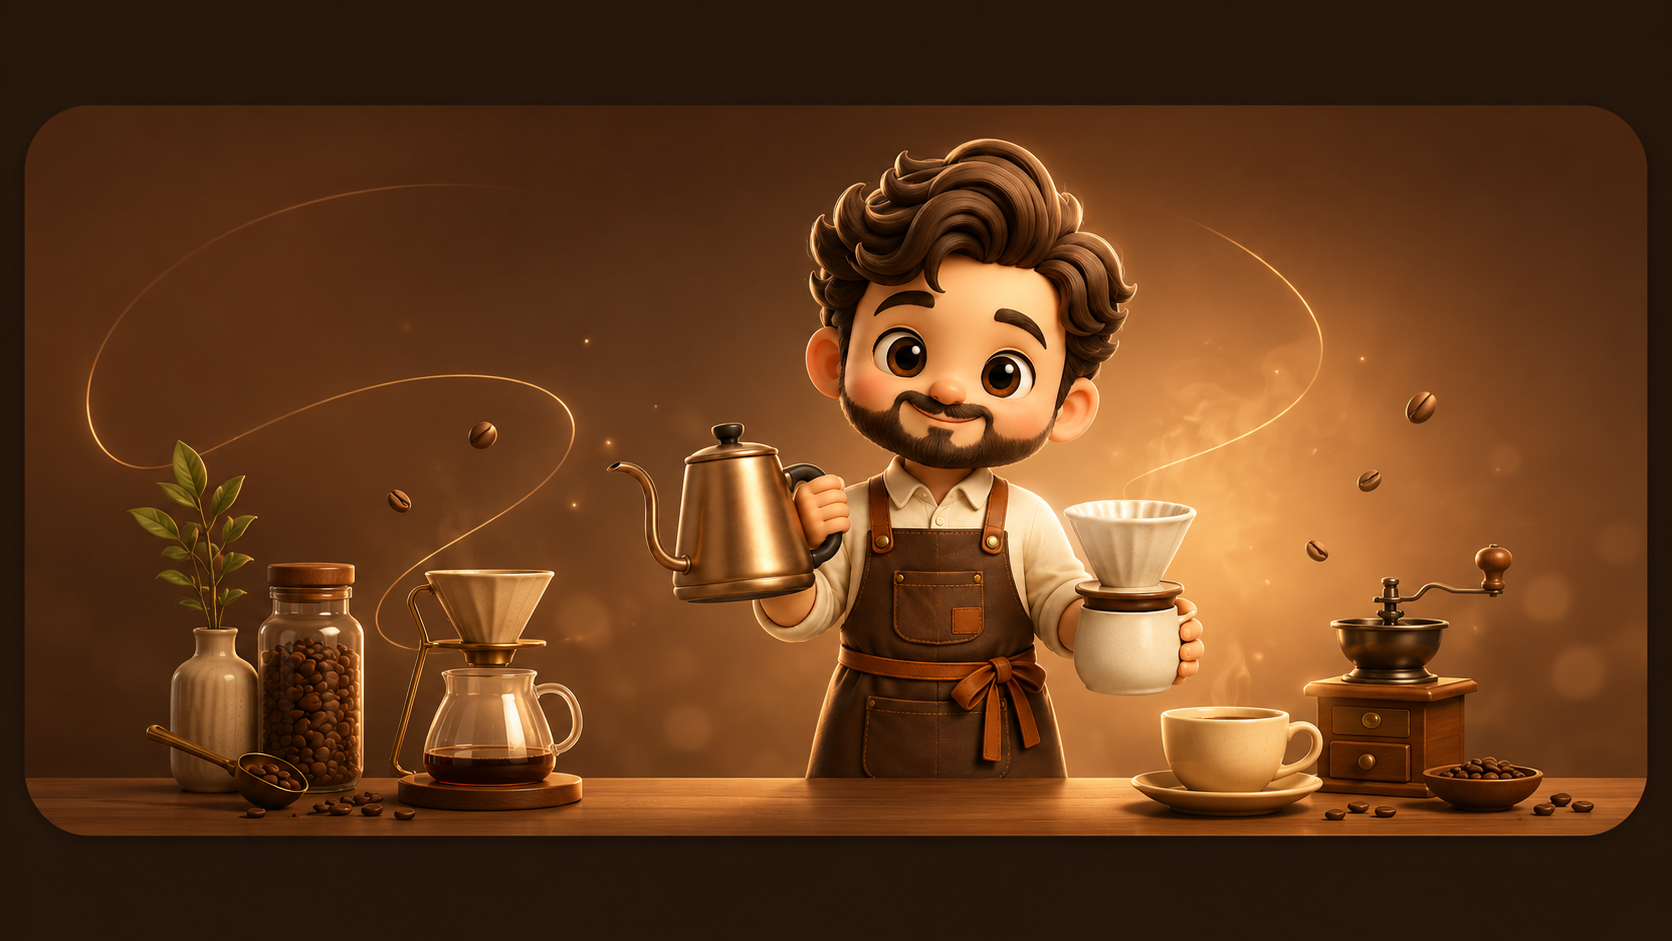
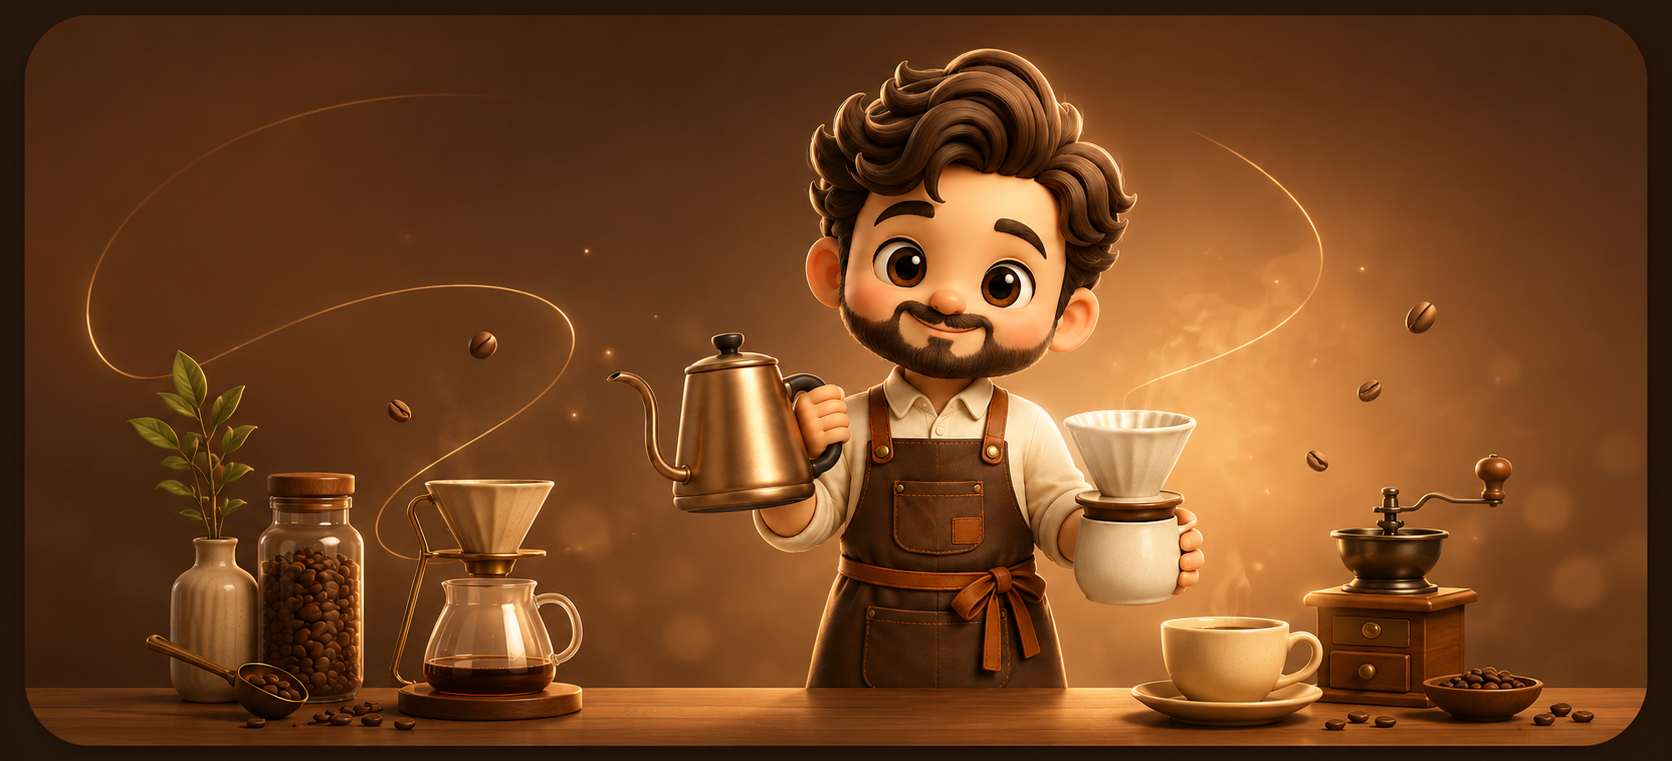
Revise metrics, refine full-bleed barista visual, and add v11 compact mascot controls

diff --git a/assets/app.js b/assets/app.js
@@ -1439,18 +1439,13 @@
   }
 
   function renderMetrics() {
-    const totalReferences = ["varieties", "drippers", "processes", "roasts", "waters", "grinders"].reduce((sum, key) => sum + (DATA[key]?.length || 0), 0);
-    const sourceCovered = ["varieties", "drippers", "processes", "roasts", "waters", "grinders"].reduce((sum, key) => sum + ((DATA[key] || []).filter(row => sourceUrl(row)).length), 0);
-    const sourceCoverage = totalReferences ? Math.round((sourceCovered / totalReferences) * 100) : 0;
     const metrics = [
-      { value: totalReferences, label: "Total Referensi", hint: "Akumulasi varietas, dripper, proses, roast profile, air, dan grinder. Angka tidak diduplikasi bila data terbaru berisi record yang sama." },
       { value: DATA.varieties?.length || 0, label: "Varietas", hint: "Jumlah varietas/kultivar di pustaka data lokal dashboard." },
-      { value: DATA.processes?.length || 0, label: "Proses", hint: "Jumlah metode pasca panen di pustaka data lokal dashboard." },
       { value: DATA.drippers?.length || 0, label: "Dripper", hint: "Jumlah dripper di pustaka data lokal dashboard." },
-      { value: DATA.waters?.length || 0, label: "Water", hint: "Jumlah profil air/mineral di pustaka data lokal dashboard." },
-      { value: DATA.grinders?.length || 0, label: "Grinder", hint: "Jumlah grinder/manual grinder yang dipakai untuk estimasi setting." },
+      { value: DATA.processes?.length || 0, label: "Proses", hint: "Jumlah metode pasca panen di pustaka data lokal dashboard." },
       { value: DATA.roasts?.length || 0, label: "Roast Profile", hint: "Jumlah profil roasting di pustaka data lokal dashboard." },
-      { value: `${sourceCoverage}%`, label: "Source Coverage", hint: "Persentase referensi yang memiliki SourceURL aktif." }
+      { value: DATA.waters?.length || 0, label: "Water", hint: "Jumlah profil air/mineral di pustaka data lokal dashboard." },
+      { value: DATA.grinders?.length || 0, label: "Grinder", hint: "Jumlah grinder/manual grinder yang dipakai untuk estimasi setting." }
     ];
     $("libraryMetrics").innerHTML = metrics.map(item => `<div class="metric" title="${html(item.hint)}"><strong>${html(item.value)}</strong><span>${html(item.label)}</span></div>`).join("");
   }
@@ -4669,13 +4664,31 @@
 
   function initFloatingMascot() {
     const mascot = $("floatingMascot");
+    const launcher = $("floatingMascotLauncher");
+    const minimizeBtn = $("floatingMascotMinimize");
+    const closeBtn = $("floatingMascotClose");
     if (!mascot || mascot.dataset.ready === "true") return;
     mascot.dataset.ready = "true";
+
+    const stateKey = "coffee_dashboard_mascot_state_v11";
+    const readState = () => {
+      try { return JSON.parse(localStorage.getItem(stateKey) || '{}'); } catch { return {}; }
+    };
+    const writeState = next => {
+      try { localStorage.setItem(stateKey, JSON.stringify(next)); } catch {}
+    };
+    const applyVisibility = state => {
+      const minimized = Boolean(state.minimized);
+      const closed = Boolean(state.closed);
+      mascot.classList.toggle("is-minimized", minimized);
+      mascot.classList.toggle("hidden", closed);
+      if (launcher) launcher.classList.toggle("hidden", !closed);
+    };
+    const currentState = () => readState();
+
     const setVars = (x = 0, y = 0) => {
       mascot.style.setProperty("--fm-x", `${x.toFixed(3)}`);
       mascot.style.setProperty("--fm-y", `${y.toFixed(3)}`);
-      mascot.style.setProperty("--fm-eye-x", `${(x * 4).toFixed(2)}px`);
-      mascot.style.setProperty("--fm-eye-y", `${(y * 3).toFixed(2)}px`);
     };
     const move = event => {
       const rect = mascot.getBoundingClientRect();
@@ -4685,7 +4698,13 @@
       setVars(x, y);
     };
     const tap = () => {
-      mascot.classList.toggle("is-open");
+      if (mascot.classList.contains("is-minimized")) {
+        const next = { ...currentState(), minimized: false, closed: false };
+        writeState(next);
+        applyVisibility(next);
+      } else {
+        mascot.classList.toggle("is-open");
+      }
       mascot.classList.add("is-pouring");
       setTimeout(() => mascot.classList.remove("is-pouring"), 900);
     };
@@ -4694,6 +4713,26 @@
     mascot.addEventListener("pointerleave", () => { mascot.classList.remove("is-awake"); setVars(0, 0); });
     mascot.addEventListener("click", tap);
     mascot.addEventListener("keydown", event => { if (event.key === "Enter" || event.key === " ") { event.preventDefault(); tap(); } });
+    minimizeBtn?.addEventListener("click", event => {
+      event.stopPropagation();
+      const next = { ...currentState(), minimized: !mascot.classList.contains("is-minimized"), closed: false };
+      writeState(next);
+      applyVisibility(next);
+      mascot.classList.remove("is-open");
+    });
+    closeBtn?.addEventListener("click", event => {
+      event.stopPropagation();
+      const next = { ...currentState(), closed: true, minimized: false };
+      writeState(next);
+      applyVisibility(next);
+    });
+    launcher?.addEventListener("click", () => {
+      const next = { ...currentState(), closed: false, minimized: false };
+      writeState(next);
+      applyVisibility(next);
+      mascot.classList.add("is-open");
+    });
+    applyVisibility(readState());
     setVars(0, 0);
   }
 

diff --git a/assets/styles.css b/assets/styles.css
@@ -5982,3 +5982,201 @@ main,
     columns: 1;
   }
 }
+
+
+/* ===== v11 compact hero + mascot controls + cleaner visual ===== */
+.hero {
+  min-height: 0 !important;
+  padding: 28px 32px !important;
+  gap: 20px !important;
+}
+
+.hero-title-row h1 {
+  font-size: clamp(68px, 6vw, 96px);
+}
+
+.hero-main {
+  gap: 14px !important;
+}
+
+.hero-text {
+  gap: 12px;
+}
+
+.hero-lead {
+  font-size: clamp(18px, 1.75vw, 22px);
+  max-width: 40ch;
+}
+
+.hero-copy, .hero-footnote {
+  font-size: 14px;
+  line-height: 1.68;
+}
+
+.hero-feature-grid {
+  grid-template-columns: repeat(3, minmax(0, 1fr));
+  gap: 10px;
+}
+
+.hero-feature-card {
+  min-height: 96px;
+  padding: 12px 14px;
+}
+
+.hero-workflow-card {
+  padding: 14px 16px;
+}
+
+.hero-side .hero-card {
+  padding: 18px;
+}
+
+.metric-grid {
+  grid-template-columns: repeat(2, minmax(0, 1fr)) !important;
+}
+
+.metric-grid .metric {
+  min-height: 78px;
+}
+
+.brew-visualizer {
+  min-height: 236px;
+  padding: 0 !important;
+  background: #5b3526;
+}
+
+.brew-visualizer-copy {
+  inset: 18px auto auto 18px;
+  z-index: 3;
+  max-width: 300px;
+}
+
+.brew-visualizer-copy strong {
+  max-width: 11ch;
+}
+
+.brew-visualizer-copy p {
+  max-width: 260px;
+}
+
+.brew-visualizer-scene {
+  position: absolute;
+  inset: 0;
+}
+
+.brew-visual-banner {
+  width: 100%;
+  height: 100%;
+  object-fit: cover;
+  object-position: center center;
+  transform: scale(1.08);
+}
+
+.brew-visualizer::after {
+  background: linear-gradient(90deg, rgba(40,20,12,.46) 0%, rgba(40,20,12,.22) 28%, rgba(40,20,12,.08) 48%, rgba(40,20,12,.04) 100%);
+}
+
+.output-grid {
+  grid-template-columns: repeat(3, minmax(0, 1fr));
+  align-items: stretch;
+}
+
+.output-card {
+  min-height: 128px;
+  display: flex;
+  flex-direction: column;
+  justify-content: flex-start;
+}
+
+.output-card small {
+  margin-top: auto;
+  padding-top: 10px;
+}
+
+.recipe-grid {
+  align-items: stretch;
+}
+
+.recipe-card {
+  min-height: 100%;
+}
+
+.floating-mascot {
+  bottom: 16px;
+  left: 16px;
+}
+
+.floating-mascot-bubble-head {
+  display: flex;
+  align-items: center;
+  justify-content: space-between;
+  gap: 10px;
+}
+
+.floating-mascot-controls {
+  display: inline-flex;
+  gap: 6px;
+}
+
+.mascot-control-btn {
+  width: 24px;
+  height: 24px;
+  border-radius: 999px;
+  border: 1px solid rgba(255,255,255,.12);
+  background: rgba(255,255,255,.08);
+  color: #fff6ec;
+  cursor: pointer;
+  font-size: 14px;
+  line-height: 1;
+}
+
+.mascot-control-btn:hover {
+  background: rgba(255,255,255,.14);
+}
+
+.floating-mascot.is-minimized .floating-mascot-bubble {
+  opacity: 0;
+  transform: translateY(12px) scale(.96);
+  width: 0;
+  min-width: 0;
+  padding: 0;
+  overflow: hidden;
+}
+
+.floating-mascot-launcher {
+  position: fixed;
+  left: 16px;
+  bottom: 16px;
+  z-index: 39;
+  min-height: 42px;
+  padding: 10px 14px;
+  border-radius: 999px;
+  border: 1px solid rgba(120,77,53,.22);
+  background: linear-gradient(180deg, rgba(68,41,29,.98), rgba(114,77,53,.96));
+  color: #fff6ec;
+  font-weight: 800;
+  box-shadow: 0 16px 32px rgba(34,16,9,.22);
+  cursor: pointer;
+}
+
+@media (max-width: 1200px) {
+  .hero-title-row h1 {
+    font-size: clamp(58px, 8vw, 88px);
+  }
+}
+
+@media (max-width: 960px) {
+  .hero-feature-grid,
+  .output-grid {
+    grid-template-columns: 1fr;
+  }
+}
+
+@media (max-width: 820px) {
+  .hero {
+    padding: 22px 20px !important;
+  }
+  .hero-workflow-card {
+    grid-template-columns: 1fr;
+  }
+}

diff --git a/index.html b/index.html
@@ -6,14 +6,20 @@
   <title>Lestari Coffee Dashboard — Personal Brew Companion</title>
   <meta name="description" content="Dashboard kopi gratis untuk penggunaan pribadi, eksplorasi resep, stok, brew log, QA, dan rekomendasi seduh." />
   <meta name="theme-color" content="#4B2E2B" />
-  <link rel="stylesheet" href="assets/styles.css?v=20260603-stable-v10" />
+  <link rel="stylesheet" href="assets/styles.css?v=20260603-stable-v11" />
 </head>
 <body>
   <div class="app-shell">
     <div id="appToast" class="app-toast hidden" role="status" aria-live="polite"></div>
     <div id="floatingMascot" class="floating-mascot" data-mood="balanced" role="button" tabindex="0" aria-label="Coffee mascot assistant">
       <div class="floating-mascot-bubble" id="floatingMascotBubble">
-        <strong id="floatingMascotStatus">Balanced Brew</strong>
+        <div class="floating-mascot-bubble-head">
+          <strong id="floatingMascotStatus">Balanced Brew</strong>
+          <div class="floating-mascot-controls">
+            <button type="button" class="mascot-control-btn" id="floatingMascotMinimize" aria-label="Minimize mascot">–</button>
+            <button type="button" class="mascot-control-btn" id="floatingMascotClose" aria-label="Close mascot">×</button>
+          </div>
+        </div>
         <span id="floatingMascotText">Mascot siap memberi feedback seduh.</span>
       </div>
       <div class="floating-mascot-stage" aria-hidden="true">
@@ -21,6 +27,7 @@
         <img class="floating-mascot-image" src="assets/barista-mascot.png" alt="" />
       </div>
     </div>
+    <button type="button" id="floatingMascotLauncher" class="floating-mascot-launcher hidden" aria-label="Show coffee mascot">☕ Mascot</button>
     <header class="hero">
       <div class="hero-main">
         <p class="eyebrow">Lestari Coffee Dashboard</p>
